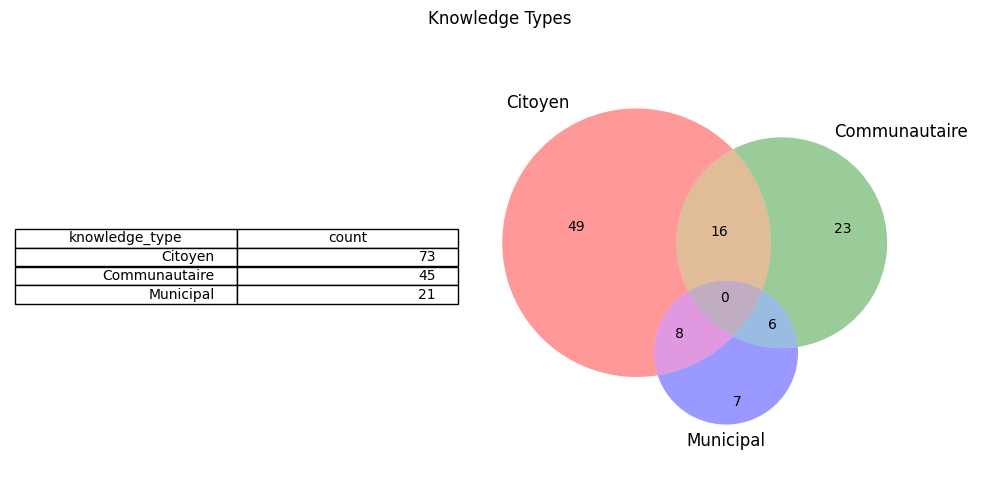
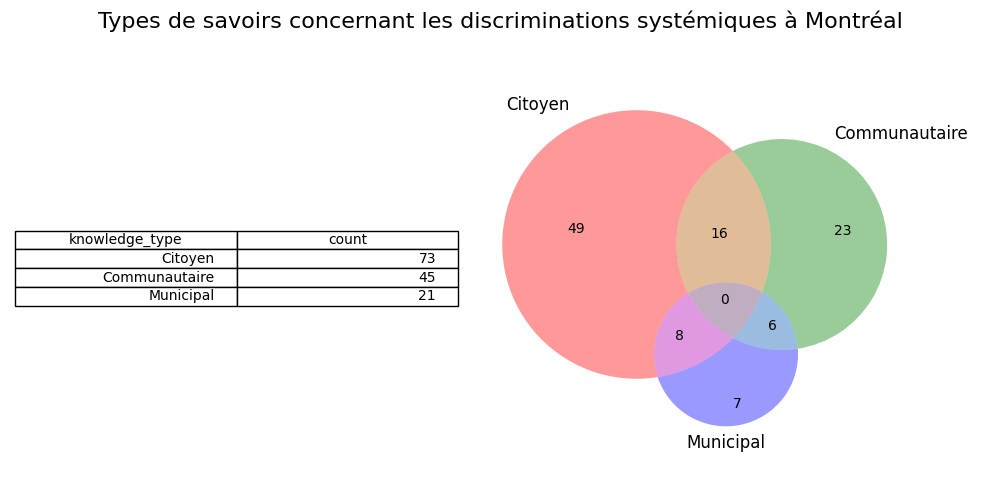
minor changes

diff --git a/scripts/knowledge_type.py b/scripts/knowledge_type.py
@@ -94,7 +94,7 @@ class KnowledgeType:
         venn3(subsets=venn_values, set_labels=('Citoyen', 'Communautaire', 'Municipal'), ax=ax2)
 
         # Set the title of the entire figure
-        fig.suptitle('Knowledge Types')
+        fig.suptitle('Types de savoirs concernant les discriminations systémiques à Montréal', fontsize=16)
 
         # Adjust the layout
         plt.tight_layout()

diff --git a/CONTRIBUTING.md b/CONTRIBUTING.md
@@ -6,7 +6,7 @@ Thank you for considering contributing to this project! Your contributions are i
 
 You can contribute in several ways:
 * Fixing bugs
-* Proposing new ideas for data processing and analysis
+* Proposing new ideas for pipelines
 * Improving documentation
 * Adding new features
 * Enhancing existing features
